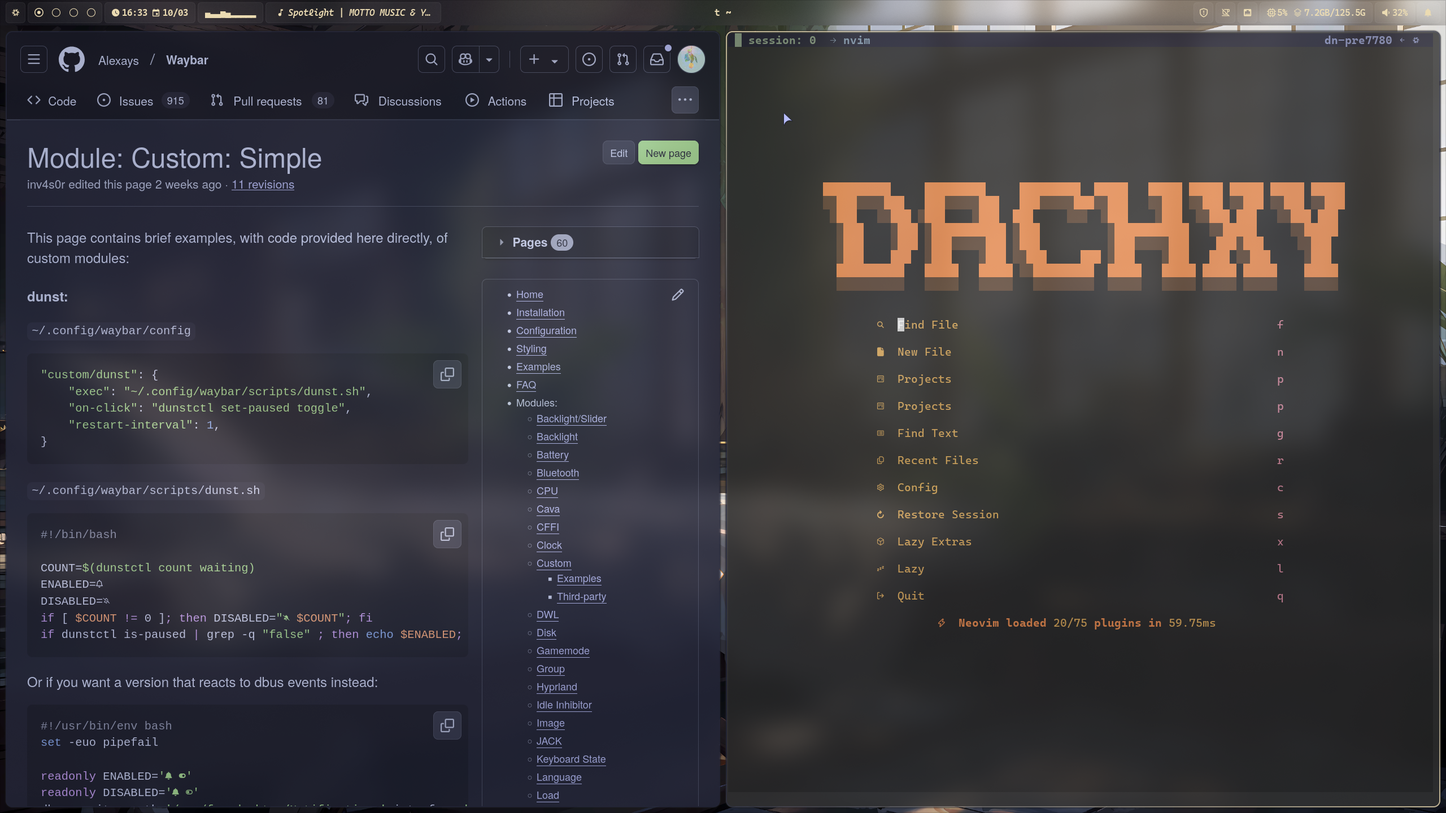
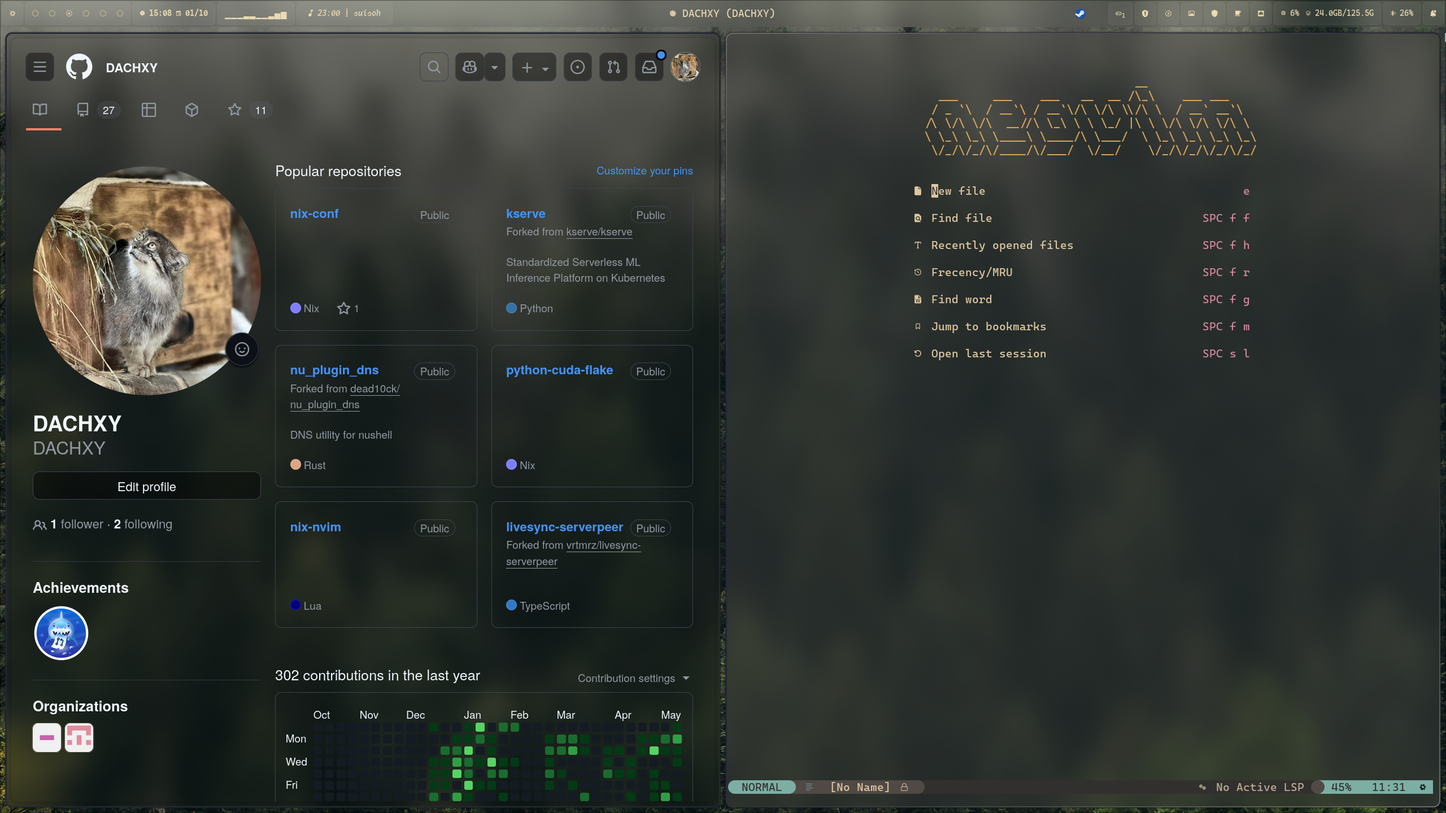
feat: yazi extra shortcuts
# Changes
## docs:
- Add extra tutorial docs
## Features:
- Add `pdf combine` to yazi
- Add `pdf normalization` to yazi
- Add `Markdown to html` to yazi
## Breaking Changes:
- Rename sops secret `wireguard/conf` to `wireguard/wg0.conf`: Make sure
update your `sops-conf.nix` and secrets file.

diff --git a/docs/hyprland.md b/docs/hyprland.md
@@ -1,0 +1,91 @@
+# Hyprland
+
+> $mod: Super
+
+## Key Binds
+
+The key binds are defined in [bind.nix](../home/user/hypr/bind.nix).
+
+### Common
+
+| Keys                    | Description                         |
+| ----------------------- | ----------------------------------- |
+| $mod + F                | Browser                             |
+| $mod + Return           | Terminal                            |
+| CTRL + ALT + T          | Terminal                            |
+| $mod + Q                | Kill active window                  |
+| $mod + M                | System Menu                         |
+| $mod + E                | File explorer (Yazi)                |
+| ALT + SPACE             | Application Launcher (rofi)         |
+| $mod + W                | Change wallpaper (Input image link) |
+| $mod + X                | Notification center                 |
+| CTRL + $mod + SHIFT + L | Lock screen (hyprlock)              |
+| $mod + C                | Visual Code (In case you need :D)   |
+
+### Input Method
+
+| Keys         | Description                |
+| ------------ | -------------------------- |
+| $mod + SPACE | Cycle input method (fcitx) |
+
+### Window
+
+| Keys                        | Description                    |
+| --------------------------- | ------------------------------ |
+| $mod + V                    | Toggle float                   |
+| $mod + P                    | Toggle pseudo #dwindle         |
+| $mod + S                    | Toggle split #dwindle          |
+| $mod + N                    | Toggle Transparency            |
+| $mod + SHIFT + C            | Center window                  |
+| $mod + (h/j/k/l)            | Move focus left/down/up/right  |
+| $mod + SHIFT + (h/j/k/l)    | Move window left/down/up/right |
+| ALT + TAB                   | Cycle next window and focus    |
+| $mod + (Mouse Right Button) | Resize Window                  |
+| $mod + (Mouse Left Button)  | Move Window                    |
+| CTRL + $mod + (h/j/k/l)     | Resize Window                  |
+| F11                         | Toggle Fullscreen              |
+
+### Utilities
+
+| Keys                    | Description                          |
+| ----------------------- | ------------------------------------ |
+| CTRL + $mod + P         | Bitwarden Selector                   |
+| $mod + PERIOD           | Emoji Selector                       |
+| $mod + SHIFT + S        | Screenshot (region)                  |
+| CTRL + SHIFT + S        | Screenshot (window)                  |
+| CTRL + SHIFT + $mod + S | Screenshot (monitor)                 |
+| CTRL + ALT + S          | Screenshot (Active Window)           |
+| CTRL + $mod + C         | Calculator                           |
+| $mod + SHIFT + P        | Color Picker                         |
+| All (Media Keys)        | Media keys work just like media keys |
+| CTRL + $mod + COMMA     | Previous Media                       |
+| CTRL + $mod + PERIOD    | Next Media                           |
+
+---
+
+## Workspaces
+
+> Workspace \[G\] is for \[G\]aming workspace, which binds to workspace 7
+
+| Keys                         | Description                                    |
+| ---------------------------- | ---------------------------------------------- |
+| $mod + (1~9)                 | Switch to workspace (1~9)                      |
+| $mod + SHIFT + (1~9)         | Move window to workspace (1~9)                 |
+| $mod + G                     | Switch to \[G\]aming workspace (7)             |
+| $mod + (mouse wheel up/down) | Next workspace (workspaces on current monitor) |
+
+### Special Rules
+
+- Workspace is binding to your seperator monitors, for example:
+
+  You have `DP-0` and `DP-1` two monitors, and `DP-0` is your main monitor.
+  Then, workspace \[1 3 5 7 9\] is bind to `DP-0`, and the rest workspaces \[2 4
+  6 8\] is bind to `DP-1`.
+
+## Window Rules
+
+Window rules are defined in [windowrule.nix](../home/user/hypr/windowrule.nix).
+The worth mentioning fules:
+
+- Discord: bind to workspace `4`
+- Steam: bind to workspace `7` (which is workspace `G` also)

diff --git a/README.md b/README.md
@@ -13,6 +13,7 @@
 - [x] Waybar
 - [x] Hyprlock
 - [x] Hypridle
+- [x] Zen Browser
 - [x] Swaync (Notification Center)
 - [x] Swww (Wallpaper)
 - [x] Ghostty (Terminal)
@@ -20,6 +21,12 @@
 - [x] Fish (shell)
 - [x] Rofi (Application Launcher)
 - [x] Stylix
+
+## Manuals
+
+- [Hyprland](./docs/hyprland.md)
+- [Yazi Extra Shortcuts](./docs/yazi.md)
+- [Fcitx5 Input Method (With Bopomofo Tutorial)](./docs/fcitx.md)
 
 ## 🎮 Game
 
@@ -38,17 +45,13 @@
 
 ## 🌐 VPN
 
-- Wireguard (You need put your own `wg0.conf` file) .
+- Wireguard (You need put your own `wg0.conf` in sops file) .
 
 > NOTE: If import `wireguard.nix` without config file, the Build will fail.
 
 ## 🧊 CUDA
 
 See [Python Cuda Flake](https://github.com/DACHXY/python-cuda-flake)
-
-## 🧱 Wallpaper Engine
-
-- [Linux Wallpaper Engine](https://github.com/Almamu/linux-wallpaperengine)
 
 ---
 
@@ -60,7 +63,7 @@ See [Python Cuda Flake](https://github.com/DACHXY/python-cuda-flake)
 
 ### Example
 
-```
+```text
 system/dev/
 ├── <your-device-name>
     ├── boot.nix # You can add extra boot options here 

diff --git a/docs/yazi.md b/docs/yazi.md
@@ -1,0 +1,16 @@
+# Yazi Extra Shortcuts
+
+| Shortcuts | Description                                            |
+| --------- | ------------------------------------------------------ |
+| gc        | Show \[g\]it file \[c\]hanges                          |
+| +         | Zoom in image                                          |
+| -         | Zoom out image                                         |
+| M         | \[M\]ount manager                                      |
+| T         | \[T\]oggle preview panel                               |
+| y         | Copy to system clipboard while yanking                 |
+| gr        | Go back to \[g\]it \[r\]oot                            |
+| cD        | Drag and \[D\]rop                                      |
+| !         | Start Terminal                                         |
+| Fpc       | \[F\]ile: \[p\]df \[c\]ombine                          |
+| Fpn       | \[F\]ile: \[p\]df \[n\]ormalizing (Convert size to A4) |
+| Fmh       | \[F\]ile: \[m\]arkdown to \[h\]tml                     |

diff --git a/docs/fcitx.md b/docs/fcitx.md
@@ -1,0 +1,8 @@
+# Fcitx Input Method
+
+## Frist Use
+
+### Enable Bopomofo
+
+Use shortcut `$mod + SPACE` cycle through input methods until Rime. Press
+`CTRL + Backtick` and select `注音`.
